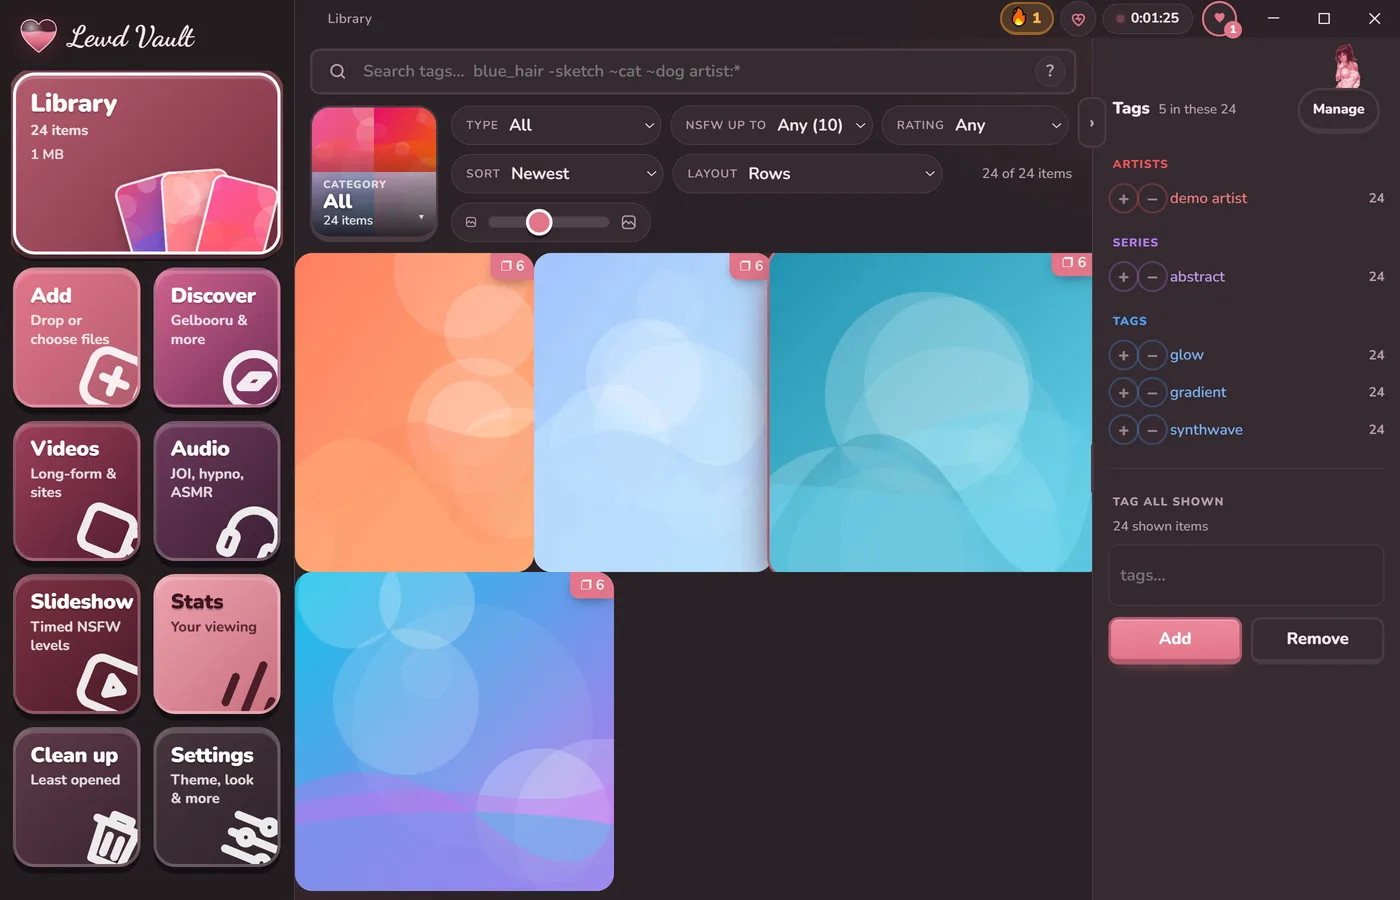
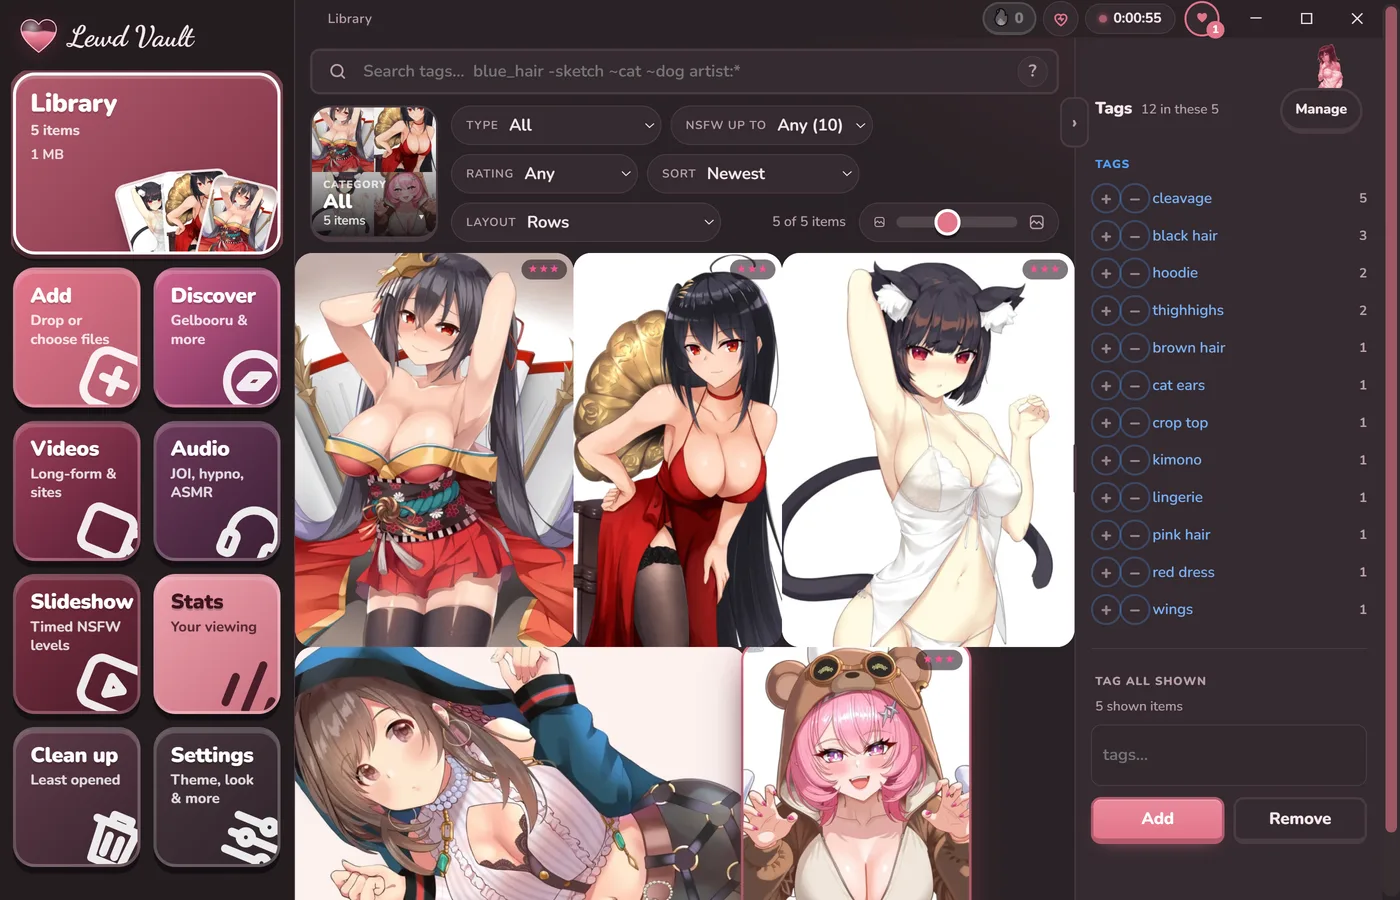
README: retake screenshots with permitted demo artwork

diff --git a/README.md b/README.md
@@ -22,7 +22,7 @@ Lewd Vault is a cute, fast Windows app for collecting, tagging and enjoying your
 
 ## 📸 Take a peek
 
-| ➕ Add & tag | 🎞 Slideshow setup |
+| ➕ Add & tag | 🎞 Slideshow |
 | --- | --- |
 | ![Adding and tagging](docs/screenshots/add.webp) | ![Slideshow](docs/screenshots/slideshow.webp) |
 | 🏆 **Your profile & levels** | 💪 **The coach** |
@@ -30,7 +30,7 @@ Lewd Vault is a cute, fast Windows app for collecting, tagging and enjoying your
 | 🎨 **Themes & settings** | 📊 **Stats** |
 | ![Settings](docs/screenshots/settings.webp) | ![Stats](docs/screenshots/stats.webp) |
 
-<sub>Screenshots show a demo vault filled with placeholder art.</sub>
+<sub>Screenshots show a demo vault. Artwork is used with permission of its creators.</sub>
 
 ## 🚀 Get started
 
